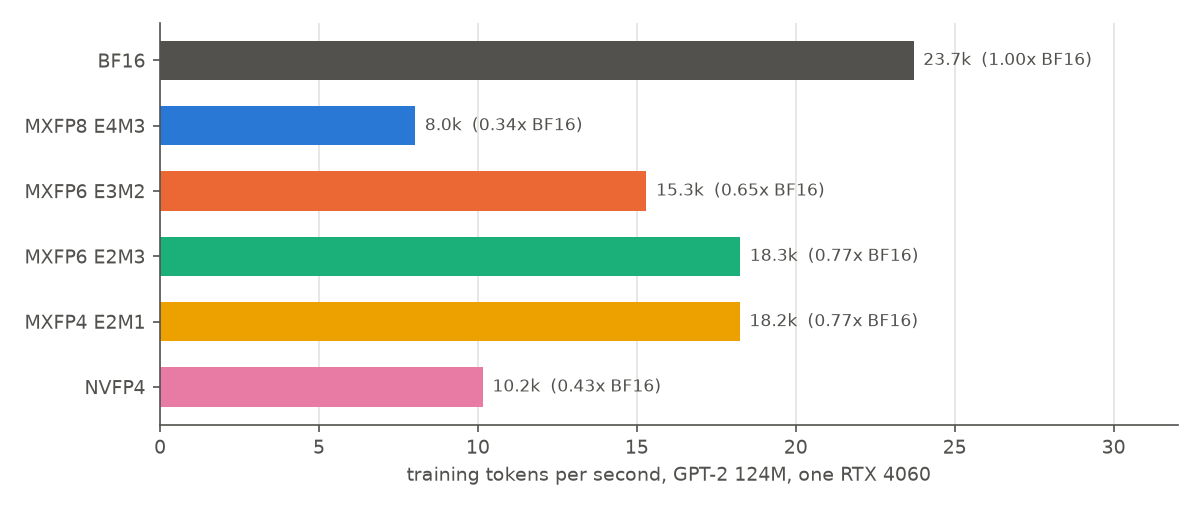
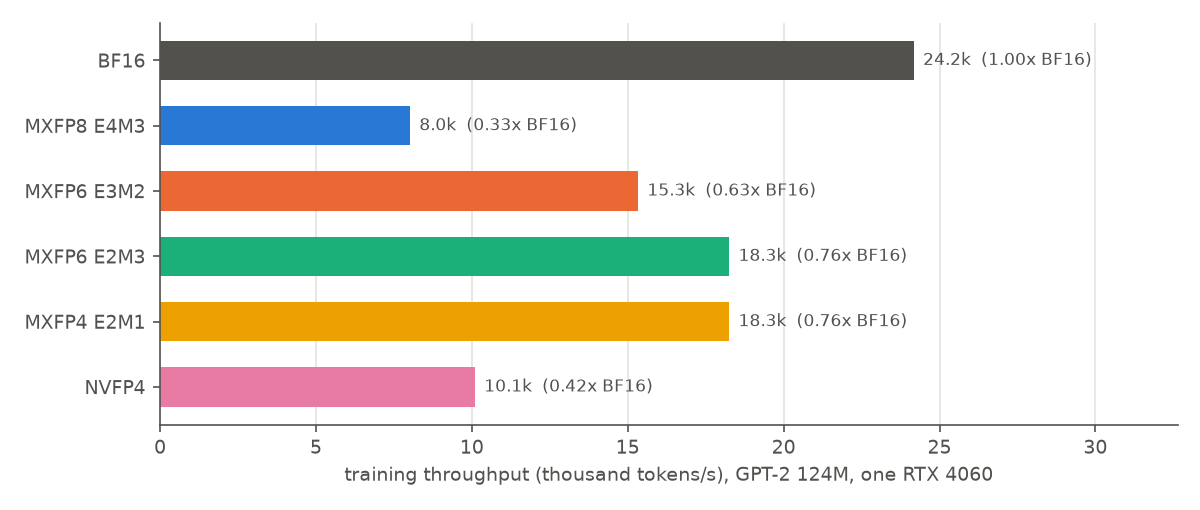
Regenerate throughput with measured peak memory

diff --git a/tools/numerics/training/figures.py b/tools/numerics/training/figures.py
@@ -162,7 +162,7 @@ def throughput(runs: Path | None) -> None:
                 va="center", fontsize=8, color=MUTED)  # fmt: skip
     ax.set_yticks(range(len(names)), [LABEL[n] for n in names], fontsize=9)
     ax.invert_yaxis()
-    ax.set_xlabel("training tokens per second, GPT-2 124M, one RTX 4060", fontsize=9, color=MUTED)
+    ax.set_xlabel("training throughput (thousand tokens/s), GPT-2 124M, one RTX 4060", fontsize=9, color=MUTED)
     ax.set_xlim(0, max(rate) * 1.35)
     style(ax)
     ax.grid(False, axis="y")

diff --git a/docs/journal/2026-11-11-training-tensor-core-emulation.md b/docs/journal/2026-11-11-training-tensor-core-emulation.md
@@ -30,11 +30,11 @@ E3M2 needs two pieces (4 matmuls) and E4M3 three (9 matmuls). Each weight class 
 2. **Fused quantizer** (`kernel.pack`): one Triton pass per tensor computes the block amax, shared exponent, rounding and int8 pieces. It reads any strides, so the transposed operands of the backward GEMMs cost no copies. FP4/FP6 rose to 15–22 TFLOP/s.
 3. **Removing int64 from MXFP8**: int64 arithmetic and int64↔float conversions are slow on this GPU. The int32 carry normalization above replaced them and doubled MXFP8 to ~4.5 TFLOP/s.
 4. **NVFP4 in FP32**: the first NVFP4 quantizer divided in float64, which runs at 1/64 rate here. Switching to FP32 with IEEE-rounded division (`div_rn`; Triton's `/` is approximate) cut it about 2.5×. The C++ reference performs the same FP32 operations, so the definition changed in both places at once and the cross-check still passes.
-5. **End-to-end training throughput** at 64 sequences × 1,024 tokens per optimizer step. The first measurement, with 8 sequences per forward pass, gave BF16 11.7k tokens/s and every emulated format 4–6k. The profiler then showed the BF16 LM-head GEMM taking 360 ms, about 20× too long. Measured peak memory was 4.0–4.3 GB at 2 sequences per pass and 5.7–6.4 GB at 4 (BF16, MXFP4). Extrapolating that slope, 8 sequences need well over the card's 8 GB. The Windows display driver does not fail with out-of-memory; it pages GPU memory to system RAM, so the run was silently slow. With 4 sequences per pass (and 16 accumulation steps), BF16 doubled to 23.7k tokens/s.
+5. **End-to-end training throughput** at 64 sequences × 1,024 tokens per optimizer step. The first measurement, with 8 sequences per forward pass, gave BF16 11.7k tokens/s and every emulated format 4–6k. The profiler then showed the BF16 LM-head GEMM taking 360 ms, about 20× too long. Measured peak memory (BF16, MXFP4) is 4.0–4.3 GB at 2 sequences per pass, 5.7–6.4 GB at 4 and 9.2–10.8 GB at 8, more than the card's 8 GB. The Windows display driver does not fail with out-of-memory; it pages GPU memory to system RAM, so the run was silently slow. With 4 sequences per pass (and 16 accumulation steps), BF16 doubled to 24.2k tokens/s (12.2k at 8 sequences in the same probe).
 
 ## Output
 
-Training throughput per format (`train.py --max-steps 4 --micro 4`, mean of steps 2–4; `docs/journal/data/training-throughput.json`):
+Training throughput per format (`train.py --micro 4`, mean of the steps after the first, which includes compilation and autotuning; `docs/journal/data/training-throughput.json`):
 
 ![Training throughput per format](img/training-throughput.png)
 
@@ -76,7 +76,7 @@ nvfp4        mlp_proj       2.43      2.33     8.11
 
 ## Result
 
-Exact emulation costs 0.77× BF16's training speed for MXFP4 and MXFP6 E2M3, 0.65× for E3M2, 0.43× for NVFP4 and 0.34× for MXFP8. These ratios measure the emulator, not the formats: a native MXFP8 tensor core would be faster than BF16. The GPU kernel stays bit-exact against the C++ references: over 1,400 random cases (every format except E5M2), the GPU grid integers, block factors and 767k GEMM outputs all match with zero bit differences (`docs/journal/data/training-xcheck-gpu.txt`).
+Exact emulation costs 0.76× BF16's training speed for MXFP4 and MXFP6 E2M3, 0.63× for E3M2, 0.42× for NVFP4 and 0.33× for MXFP8. These ratios measure the emulator, not the formats: a native MXFP8 tensor core would be faster than BF16. The GPU kernel stays bit-exact against the C++ references: over 1,400 random cases (every format except E5M2), the GPU grid integers, block factors and 767k GEMM outputs all match with zero bit differences (`docs/journal/data/training-xcheck-gpu.txt`).
 
 Sizing: training every format on the same 300M tokens (4,577 steps of 65,536 tokens) takes about 3.5 h for BF16, 10.4 h for MXFP8, 4.6–5.4 h for each MXFP6 and MXFP4 run, and 8.2 h for NVFP4. That is about 37 GPU-hours for the six formats, leaving room inside three days for pauses and stochastic-rounding variants. 300M tokens is about 2.4 tokens per parameter, far below the ~20 of a compute-optimal run, so the comparison is between formats at equal budget, not a converged GPT-2.
 
